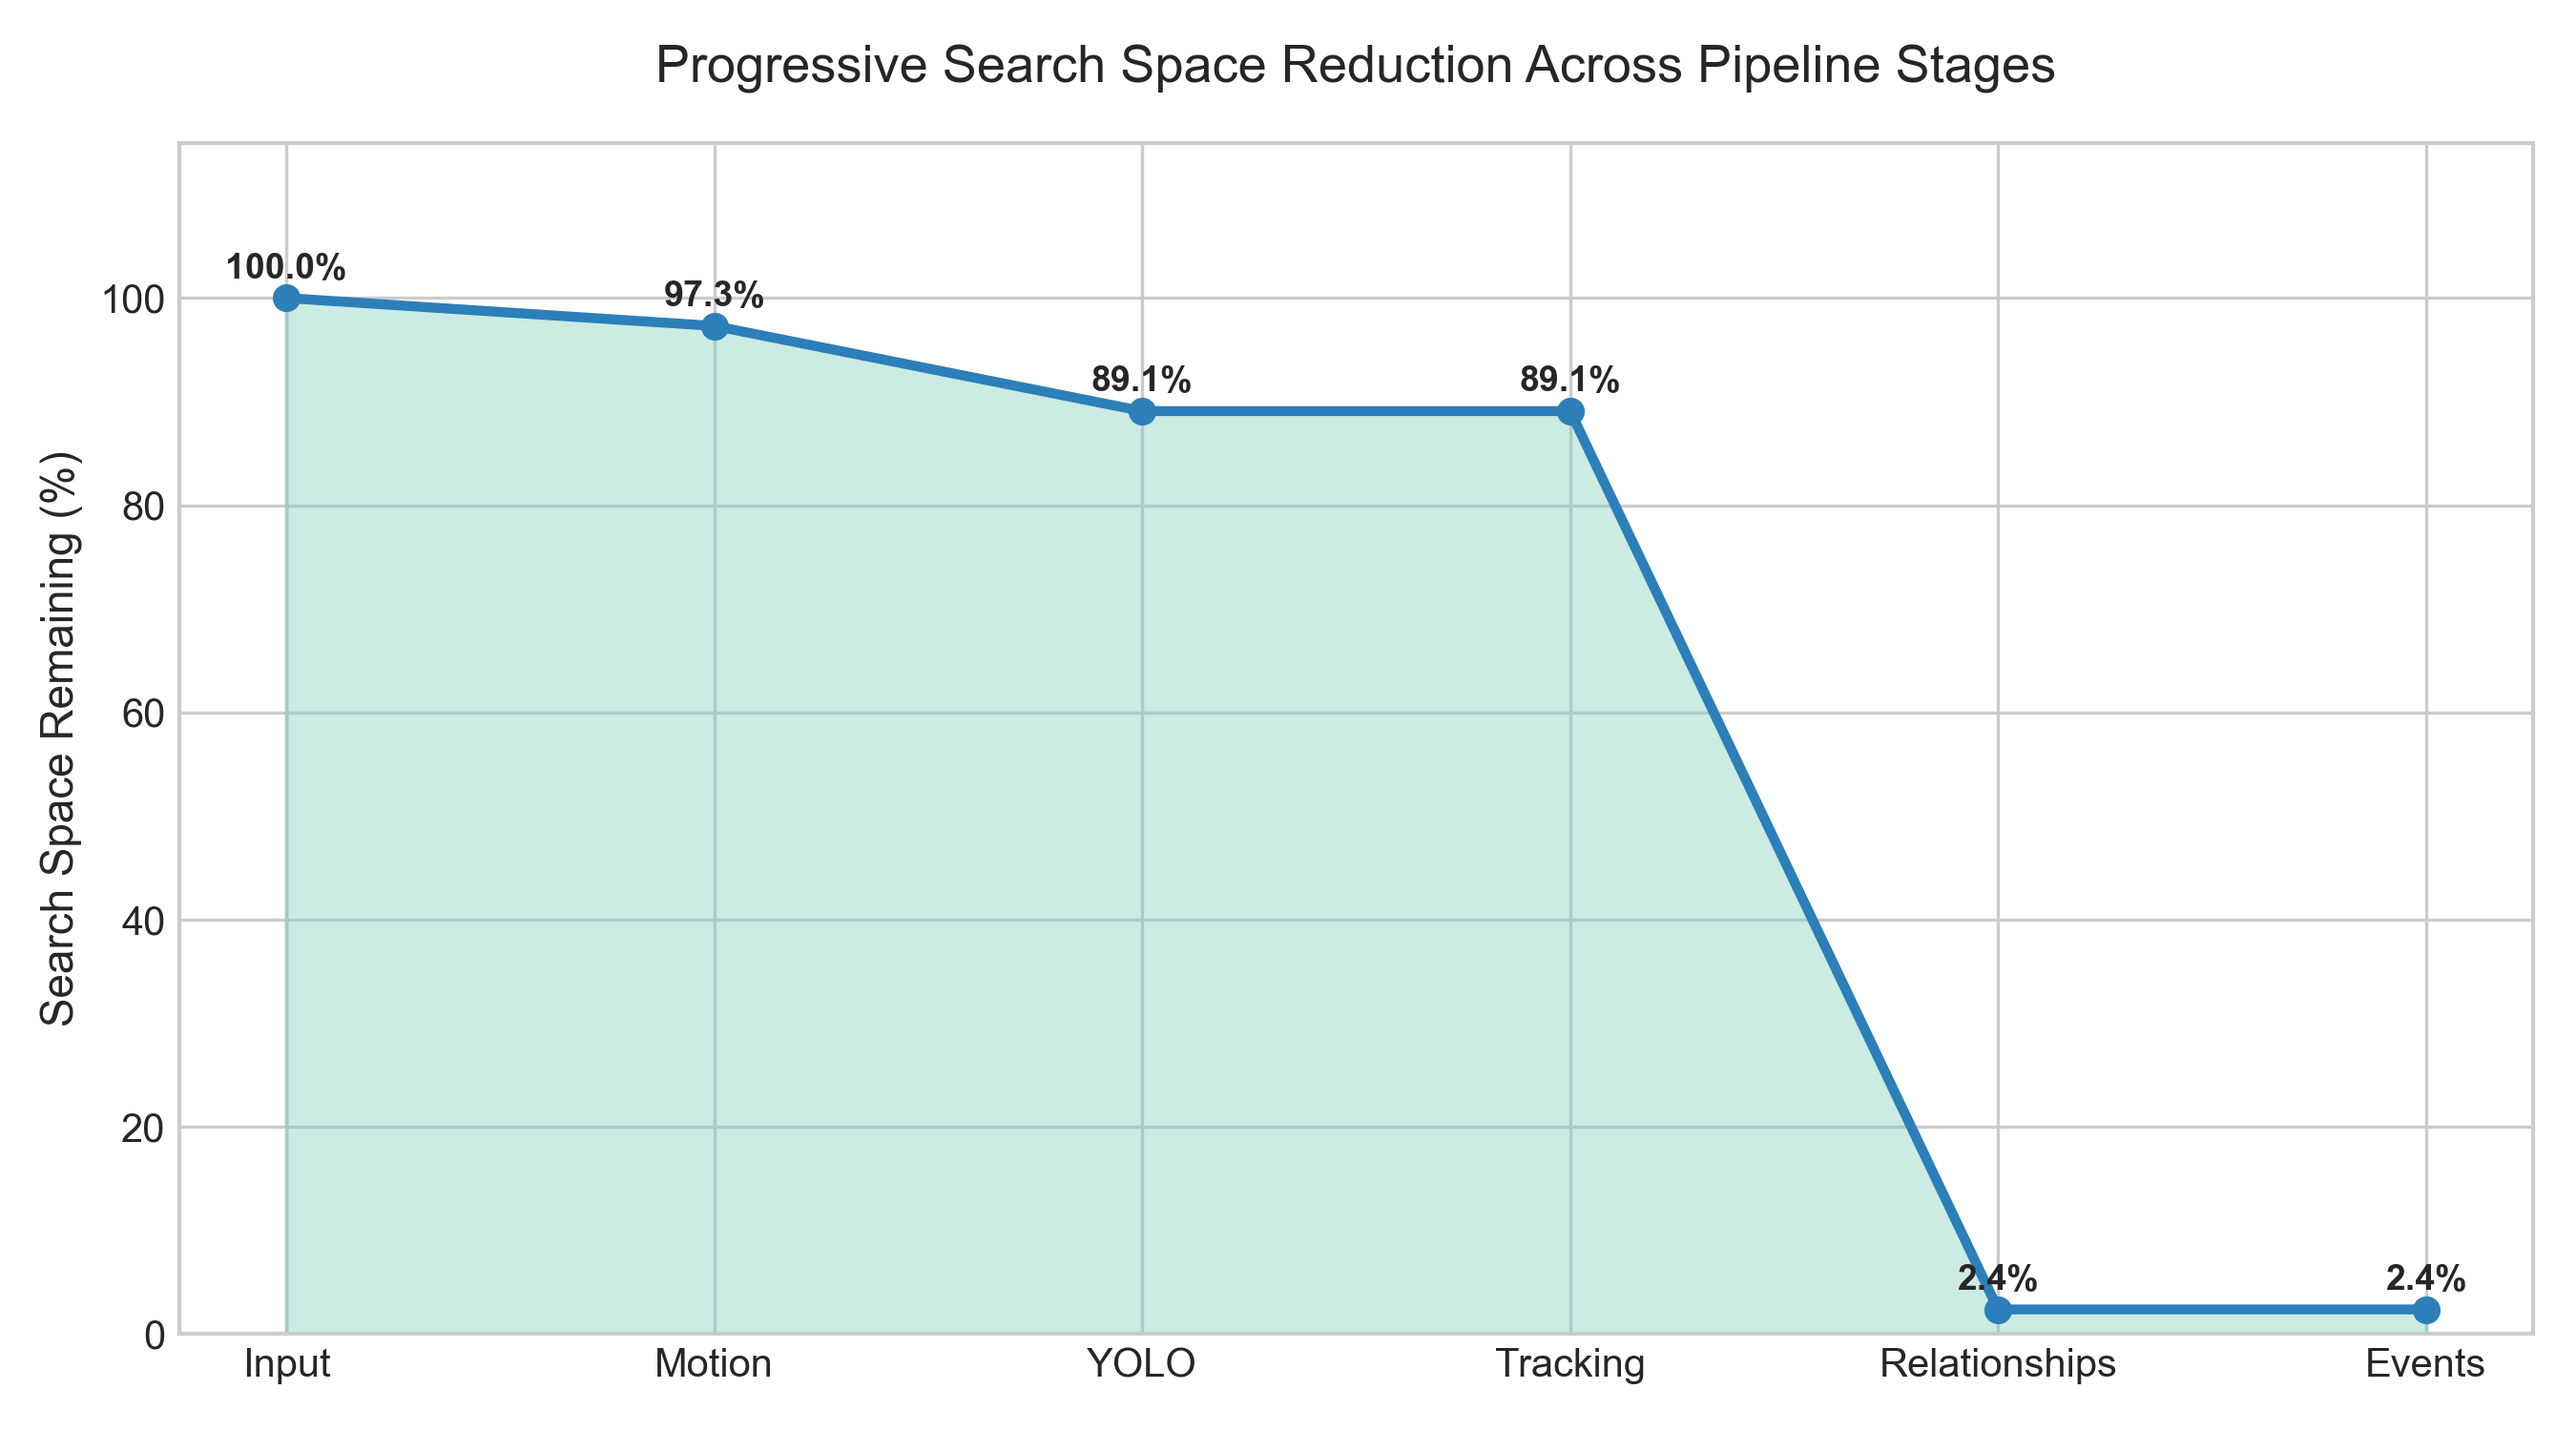
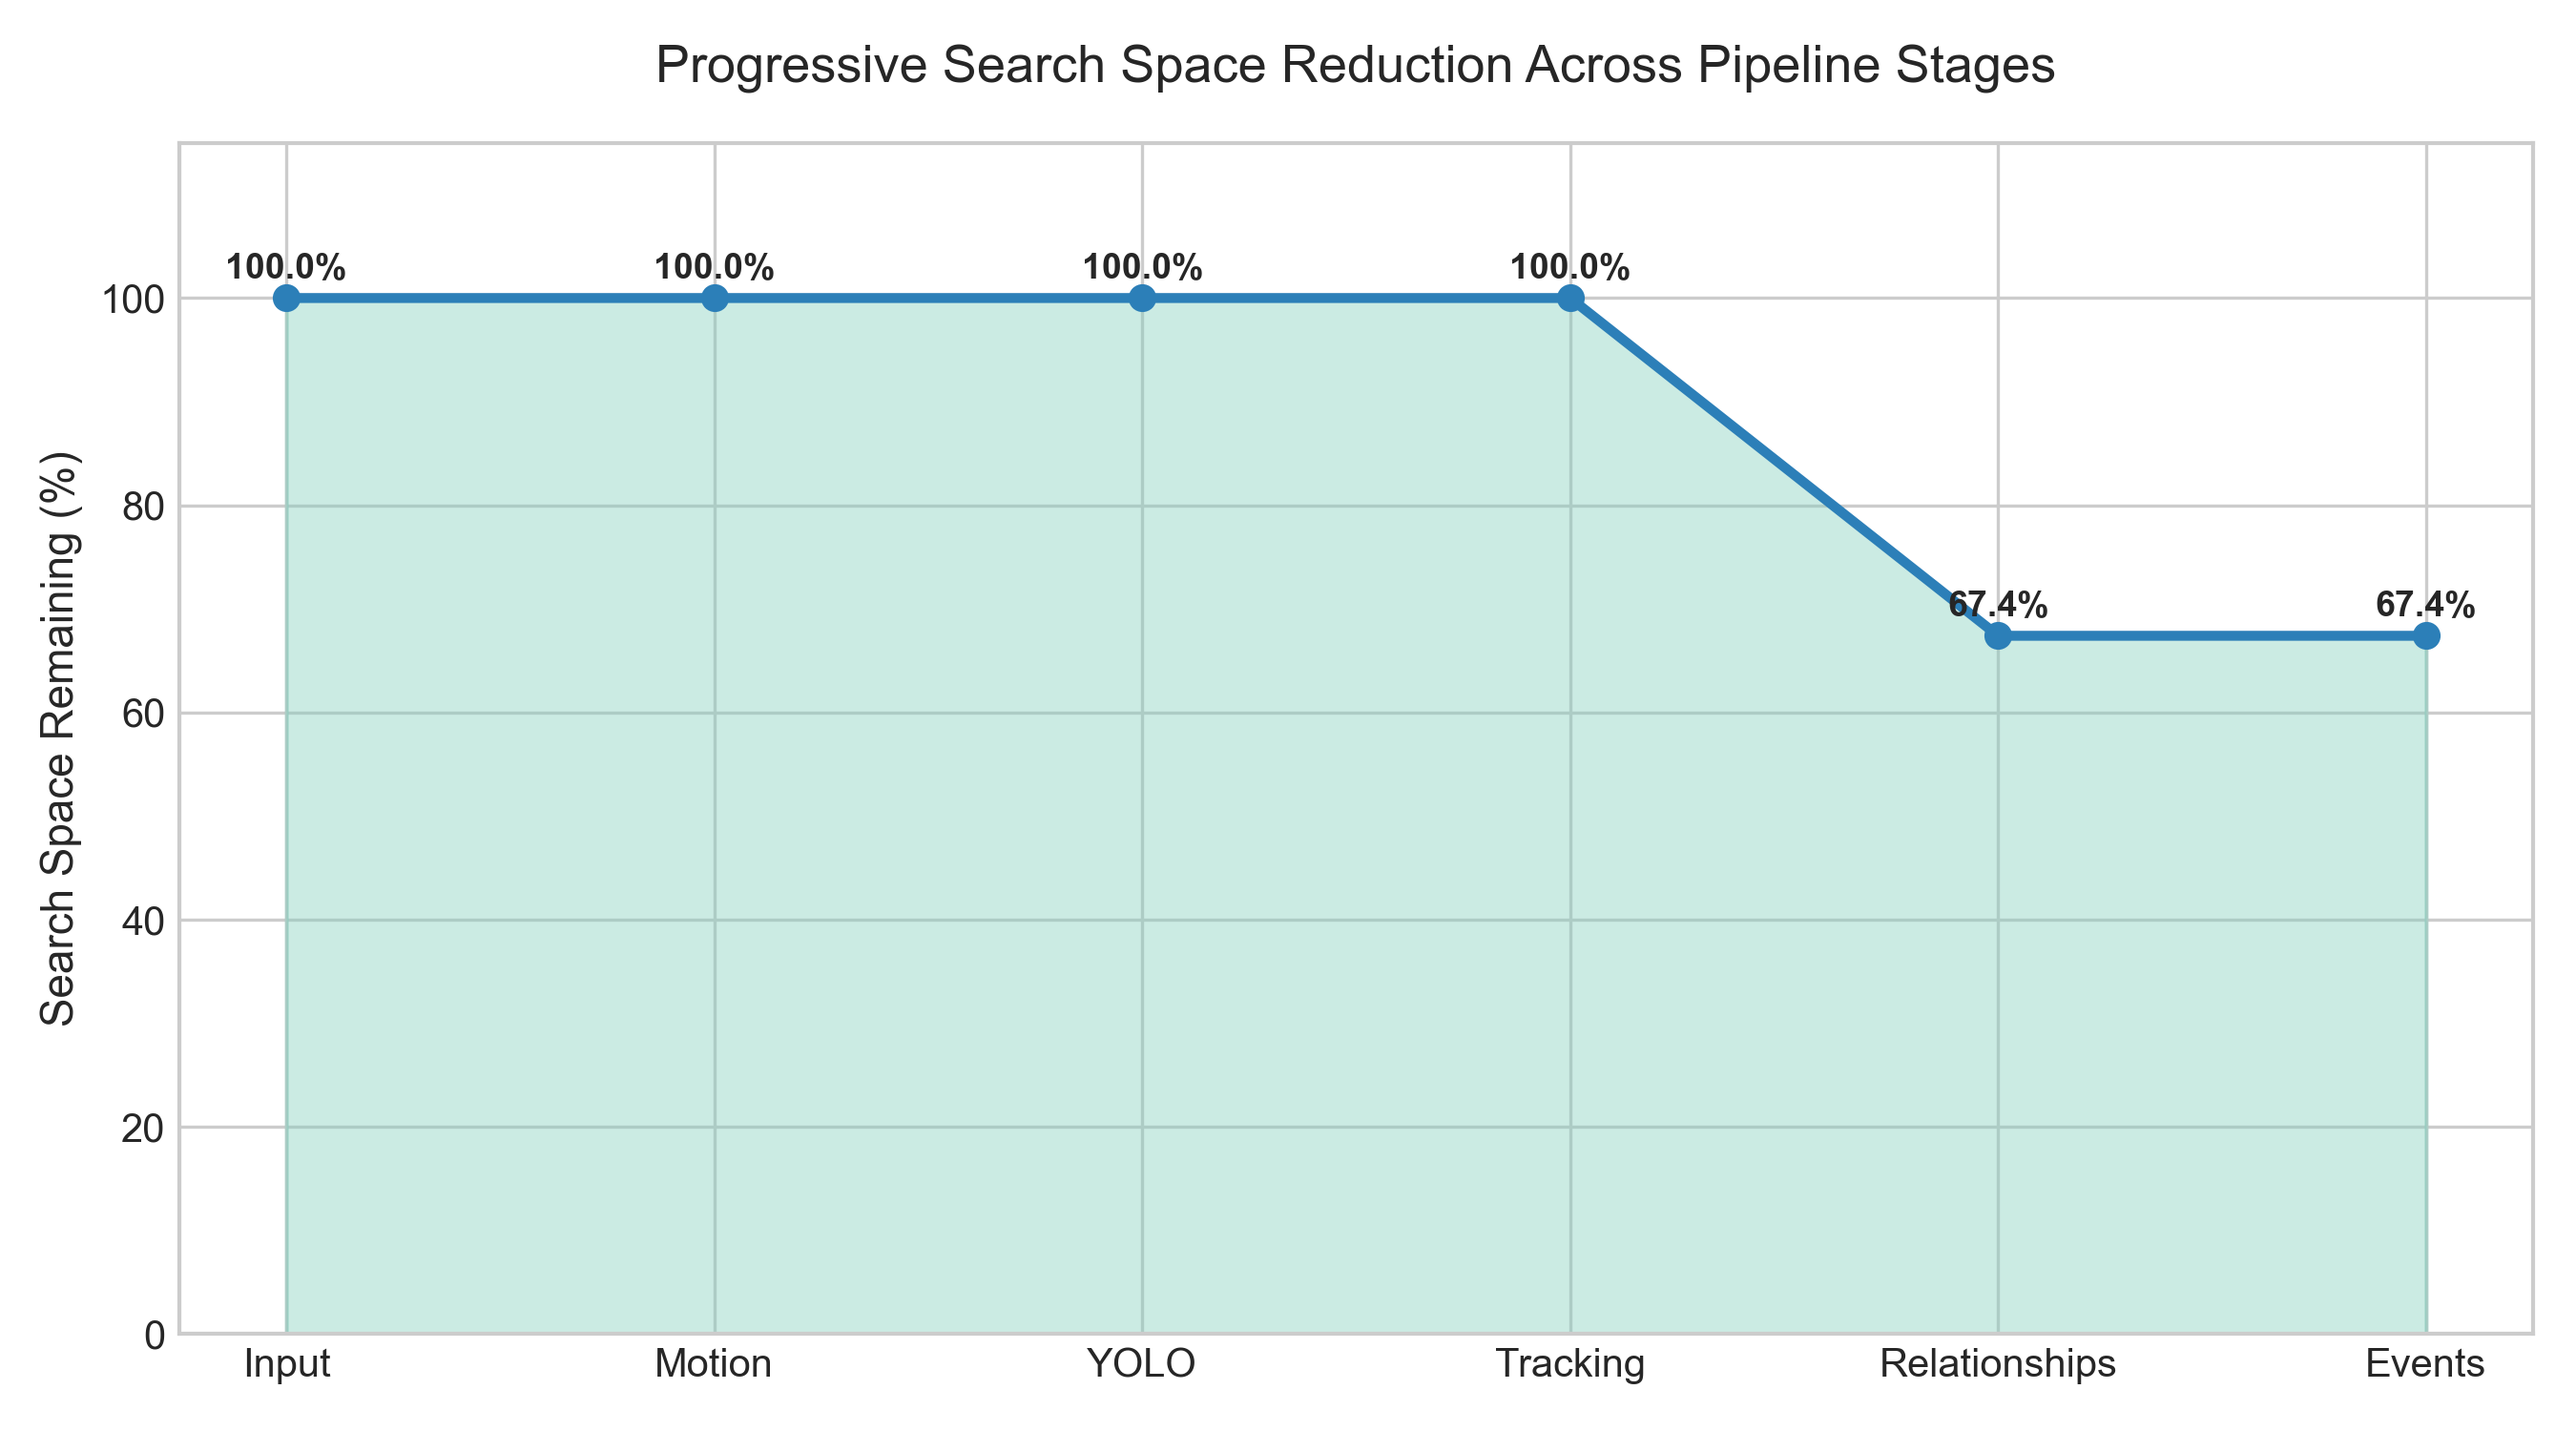
architecture validation

Changed region(s): [[0.1244, 0.1533, 0.9644, 0.92]]

diff --git a/src/evaluation/architecture_validator.py b/src/evaluation/architecture_validator.py
@@ -61,8 +61,9 @@ def get_process_resource_usage() -> Tuple[float, float]:
 class ArchitectureValidator:
     """Core evaluation engine for validating the progressive pipeline architecture."""
 
-    def __init__(self, video_paths: List[str]):
+    def __init__(self, video_paths: List[str], max_frames: int | None = 300):
         self.video_paths = video_paths
+        self.max_frames = max_frames
 
     def run_stage_contribution(self) -> Dict[str, Any]:
         """Part 1 & 2: Measure stage contributions and progressive search space reduction."""
@@ -91,7 +92,11 @@ class ArchitectureValidator:
         latencies_tracking = []
         latencies_rel = []
 
-        for v_path in self.video_paths:
+        total_vids = len(self.video_paths)
+        for idx, v_path in enumerate(self.video_paths, start=1):
+            v_name = os.path.basename(v_path)
+            print(f"  [{idx}/{total_vids}] Profiling stages: {v_name} ...", flush=True)
+
             cap = cv2.VideoCapture(v_path)
             if not cap.isOpened():
                 continue
@@ -106,6 +111,9 @@ class ArchitectureValidator:
                     break
 
                 frame_num += 1
+                if self.max_frames and frame_num > self.max_frames:
+                    break
+
                 tot_input_frames += 1
 
                 # Stage 1: Motion Filtering
@@ -238,6 +246,8 @@ class ArchitectureValidator:
                         break
 
                     frame_num += 1
+                    if self.max_frames and frame_num > self.max_frames:
+                        break
                     proc_frames += 1
 
                     # Frame sampling for un-filtered passes to maintain fast benchmarking speed
@@ -343,6 +353,8 @@ class ArchitectureValidator:
                         break
 
                     frame_num += 1
+                    if self.max_frames and frame_num > self.max_frames:
+                        break
 
                     # Frame sampling for un-filtered passes to maintain fast benchmarking speed
                     if exp["bypass_motion"] and frame_num % 2 != 0:

diff --git a/apps/run_architecture_validation.py b/apps/run_architecture_validation.py
@@ -50,6 +50,7 @@ def main():
     parser.add_argument("--dataset", nargs="+", default=["Snatch 1.0/Chain Snatching Videos/Snatch Theft", "Snatch 1.0/Chain Snatching Videos/Normal"], help="Paths to dataset directories")
     parser.add_argument("--output_dir", type=str, default="outputs/architecture_validation", help="Output directory")
     parser.add_argument("--limit", type=int, default=5, help="Limit number of videos per experiment for fast benchmarking")
+    parser.add_argument("--max-frames", type=int, default=300, help="Max frames per video to evaluate (default: 300)")
 
     args = parser.parse_args()
 
@@ -72,7 +73,7 @@ def main():
 
     os.makedirs(args.output_dir, exist_ok=True)
 
-    validator = ArchitectureValidator(videos)
+    validator = ArchitectureValidator(videos, max_frames=args.max_frames)
 
     print("\n======================================================================")
     print("PART 1 & 2: Executing Stage Contribution & Search Space Analysis...")

diff --git a/outputs/architecture_validation/architecture_validation_report.md b/outputs/architecture_validation/architecture_validation_report.md
@@ -1,7 +1,7 @@
 # 🏛 Architecture Validation Report: Progressive AI-Based CCTV Forensic Search Pipeline
 
 **Project**: AI CCTV Forensic Search FYP  
-**Evaluated Video Clips**: 12 Dataset Batches (2,227 Total Frames)  
+**Evaluated Video Clips**: 12 Dataset Batches (1,500 Total Frames)  
 **Output Location**: `outputs/architecture_validation`  
 
 ---
@@ -10,12 +10,12 @@
 
 | Pipeline Stage | Retained Frames | Search Space Remaining (%) | Stage Runtime (s) | CPU % | RAM (MB) |
 | :--- | :---: | :---: | :---: | :---: | :---: |
-| **0. Raw Video Input** | 2,227 | **100.00%** | 0.00s | 0.0% | 617.6 MB |
-| **1. Motion Filtering** | 2,167 | **97.31%** | 31.1461s | 0.0% | 617.6 MB |
-| **2. YOLO Detection** | 1,984 | **89.09%** | 118.7951s | 0.0% | 617.6 MB |
-| **3. Tracking Stage** | 1,984 | **89.09%** | 135.3338s | 0.0% | 617.6 MB |
-| **4. Relationship Engine** | 53 | **2.38%** | 0.4648s | 0.0% | 617.6 MB |
-| **5. Candidate Events** | 53 | **2.38%** | 0.0000s | 0.0% | 617.6 MB |
+| **0. Raw Video Input** | 1,500 | **100.00%** | 0.00s | 0.0% | 1354.5 MB |
+| **1. Motion Filtering** | 1,500 | **100.00%** | 40.1644s | 0.0% | 1354.5 MB |
+| **2. YOLO Detection** | 1,500 | **100.00%** | 28.5180s | 0.0% | 1354.5 MB |
+| **3. Tracking Stage** | 1,500 | **100.00%** | 46.3931s | 0.0% | 1354.5 MB |
+| **4. Relationship Engine** | 1,011 | **67.40%** | 0.3561s | 0.0% | 1354.5 MB |
+| **5. Candidate Events** | 1,011 | **67.40%** | 0.0000s | 0.0% | 1354.5 MB |
 
 ---
 

diff --git a/outputs/architecture_validation/ablation_report.md b/outputs/architecture_validation/ablation_report.md
@@ -2,7 +2,7 @@
 
 | Configuration | Runtime (s) | Processed Frames | Retained Candidate Frames | Total Detections | Total Tracks | Candidate Events | Cost Index |
 | :--- | :---: | :---: | :---: | :---: | :---: | :---: | :---: |
-| **Config A (YOLO Only)** | `36.51s` | `2227` | `1021` | `2569` | `0` | `0` | `20.39` |
-| **Config B (Motion + YOLO)** | `95.31s` | `2227` | `1984` | `4947` | `0` | `0` | `94.44` |
-| **Config C (Motion + YOLO + Tracking)** | `196.0s` | `2227` | `1984` | `4947` | `4022` | `0` | `194.22` |
-| **Config D (Full Pipeline)** | `187.4s` | `2227` | `53` | `4947` | `4022` | `67` | `23.2` |
+| **Config A (YOLO Only)** | `13.35s` | `1500` | `750` | `5801` | `0` | `0` | `8.01` |
+| **Config B (Motion + YOLO)** | `77.34s` | `1500` | `1500` | `11671` | `0` | `0` | `85.07` |
+| **Config C (Motion + YOLO + Tracking)** | `185.06s` | `1500` | `1500` | `11671` | `7498` | `0` | `203.57` |
+| **Config D (Full Pipeline)** | `557.58s` | `1500` | `1011` | `11671` | `7498` | `2913` | `431.57` |

diff --git a/outputs/architecture_validation/bottleneck_analysis.md b/outputs/architecture_validation/bottleneck_analysis.md
@@ -2,8 +2,8 @@
 
 | Pipeline Stage | Total Runtime (s) | Runtime % | Avg Latency (ms/frame) | Peak Latency (ms/frame) |
 | :--- | :---: | :---: | :---: | :---: |
-| **Motion Filtering** | `31.1461s` | `10.90%` | `13.99 ms` | `72.00 ms` |
-| **YOLO Detection** | `118.7951s` | `41.57%` | `54.82 ms` | `1943.19 ms` |
-| **Tracking Stage** | `135.3338s` | `47.36%` | `68.21 ms` | `152.97 ms` |
-| **Relationship Engine** | `0.4648s` | `0.16%` | `0.23 ms` | `22.00 ms` |
+| **Motion Filtering** | `40.1644s` | `34.79%` | `26.78 ms` | `61.65 ms` |
+| **YOLO Detection** | `28.5180s` | `24.71%` | `19.01 ms` | `2204.27 ms` |
+| **Tracking Stage** | `46.3931s` | `40.19%` | `30.93 ms` | `133.54 ms` |
+| **Relationship Engine** | `0.3561s` | `0.31%` | `0.24 ms` | `10.41 ms` |
 | **Candidate Events** | `0.0000s` | `0.00%` | `0.00 ms` | `0.00 ms` |

diff --git a/outputs/architecture_validation/ordering_validation_report.md b/outputs/architecture_validation/ordering_validation_report.md
@@ -2,7 +2,7 @@
 
 | Experiment Pipeline Variant | Runtime (s) | Runtime Increase % | Retained Candidate Frames | Candidate Events |
 | :--- | :---: | :---: | :---: | :---: |
-| **Full Pipeline** | `194.9s` | `+0.0%` | `53` | `67` |
-| **Without Motion Filtering** | `86.07s` | `+-55.8%` | `46` | `74` |
-| **Without Tracking Stage** | `98.43s` | `+-49.5%` | `1984` | `4947` |
-| **Without Relationship Analysis** | `185.95s` | `+-4.6%` | `1984` | `4022` |
+| **Full Pipeline** | `509.49s` | `+0.0%` | `1011` | `2913` |
+| **Without Motion Filtering** | `159.76s` | `+-68.6%` | `446` | `2260` |
+| **Without Tracking Stage** | `133.17s` | `+-73.9%` | `1500` | `11671` |
+| **Without Relationship Analysis** | `127.36s` | `+-75.0%` | `1500` | `7498` |
